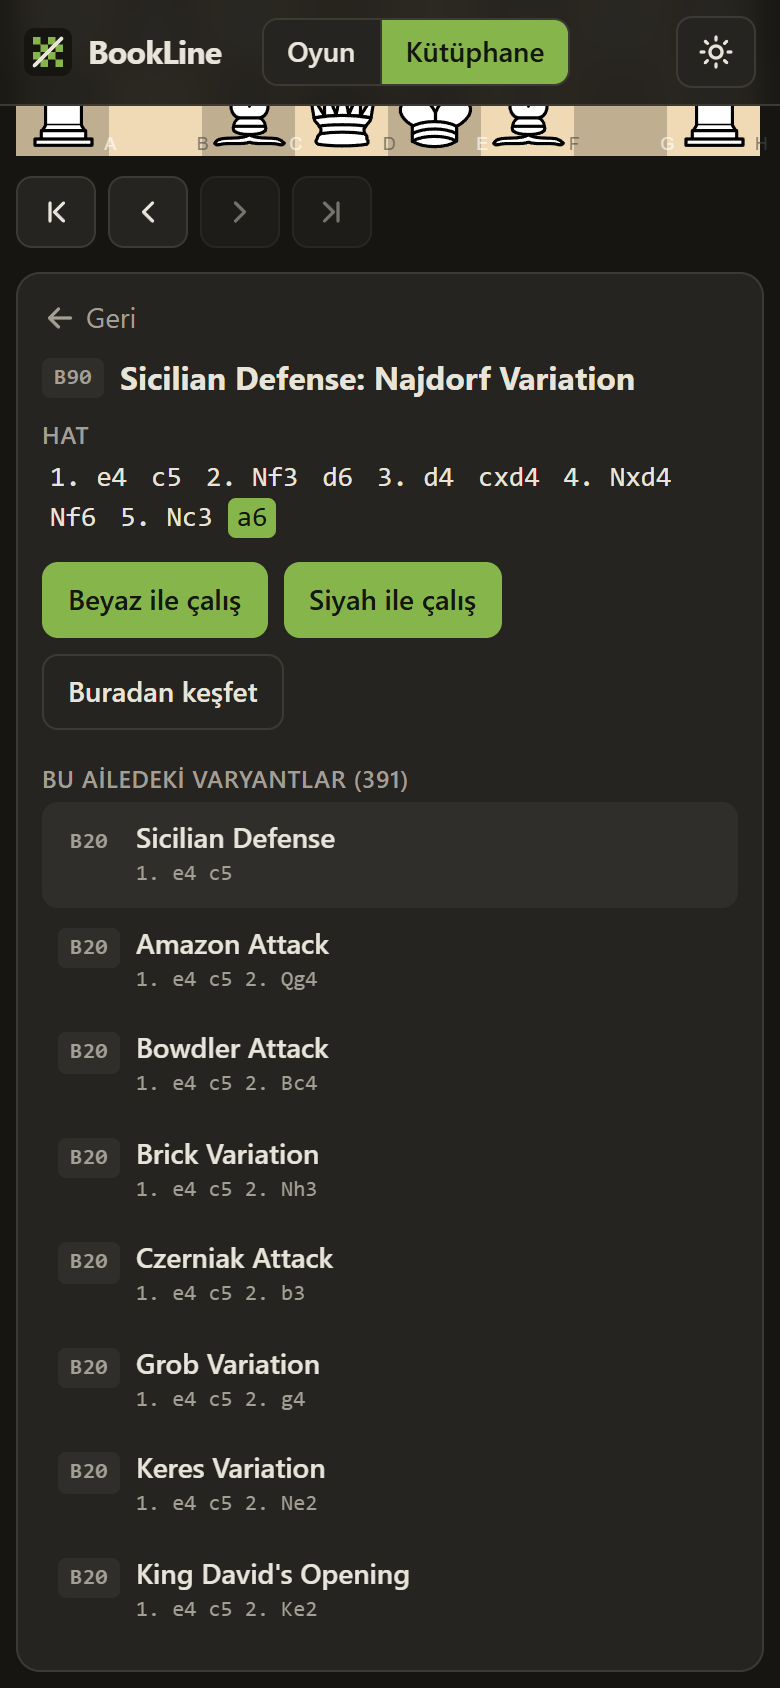
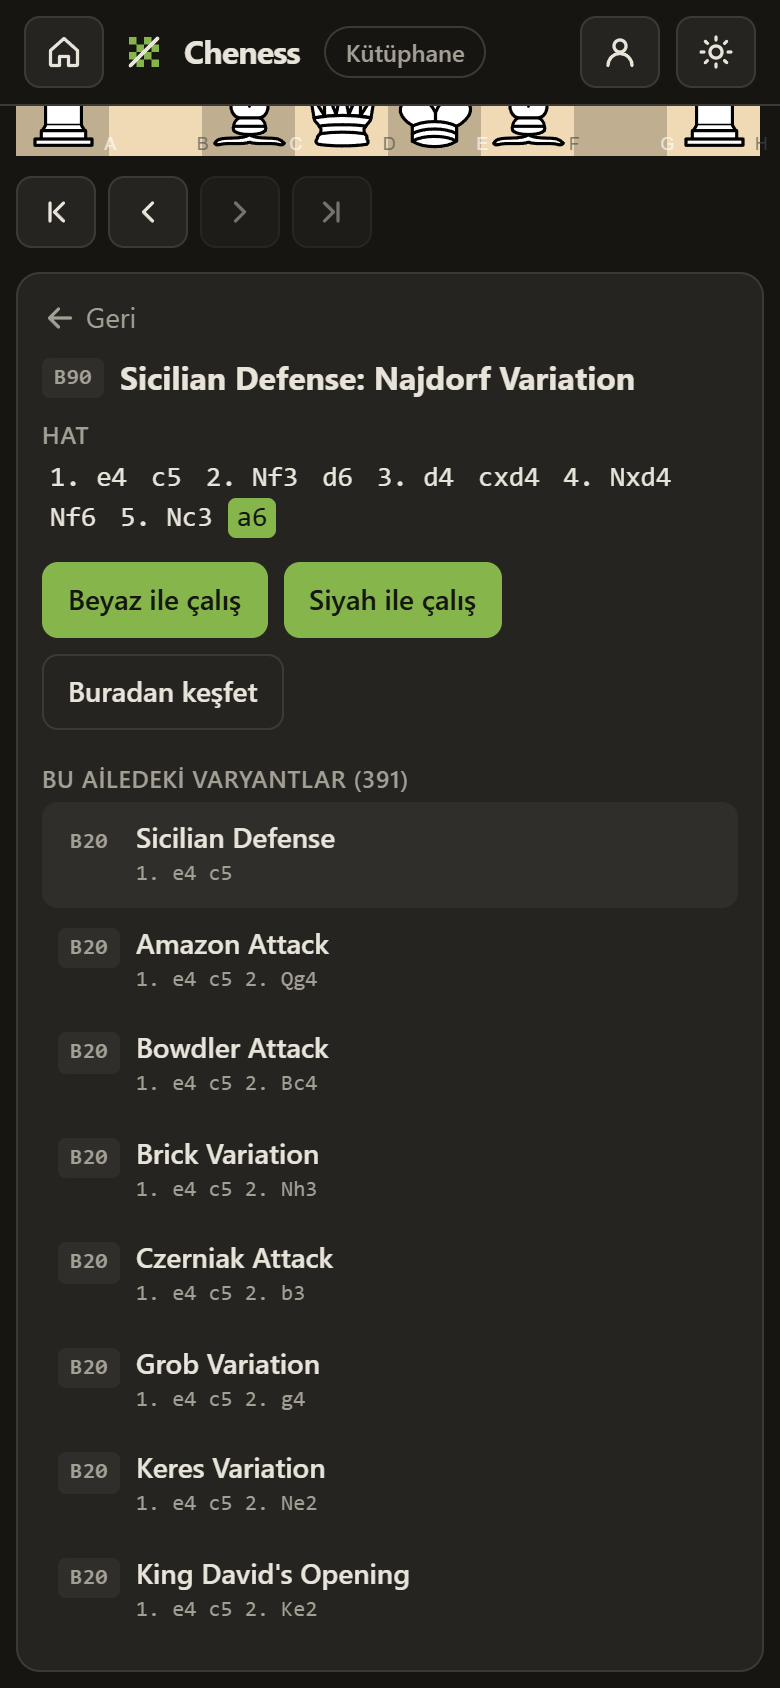
Refresh screenshots with the Cheness branding; add a Turkish user guide

diff --git a/docs/kullanim.md b/docs/kullanim.md
@@ -1,0 +1,75 @@
+# Cheness kullanım kılavuzu
+
+Adres: **https://enesturksal.github.io/cheness/** — telefon, tablet ve bilgisayarda aynı adres.
+Sunucu yok: girdiğin her şey (Lichess girişi, kullanıcı adları, ayarlar, süren oyun) yalnızca o
+cihazın tarayıcısında saklanır.
+
+## Kurulum (telefon)
+
+1. Adresi Chrome (Android) veya Safari (iPhone) ile aç.
+2. Tarayıcı menüsünden **"Ana ekrana ekle"** de. Cheness ikonuyla, tam ekran açılır.
+3. İlk açılışta motor (1,8 MB) ve açılış kitabı indirilip önbelleğe alınır; sonrasında internet
+   yokken de bot, kitap ve analiz çalışır. Canlı istatistikler ve teori için internet gerekir.
+
+Bilgisayarda kurulum gerekmez; adresi aç. Chrome'da adres çubuğundaki "yükle" ikonuyla
+pencere uygulaması olarak da ekleyebilirsin.
+
+## İlk ayar: Profil
+
+Üst çubuktaki kişi ikonu veya ana ekrandaki **Profil** kartı.
+
+- **Lichess ile giriş yap**: Lichess'e yönlendirir, onaylarsın, geri döner. Canlı açılış
+  istatistikleri (milyarlarca oyun), Ustalar veritabanı ve Lichess oyun arşivin bununla açılır.
+  Alternatif: lichess.org/account/oauth/token adresinden **hiçbir kutuyu işaretlemeden** token
+  oluşturup yapıştır.
+- **Kullanıcı adları**: "Oyunlarım" için Lichess adı girişten otomatik dolar; chess.com adını
+  elle yaz.
+- Dil (Türkçe/İngilizce) ve tema.
+
+Token'ı kimseyle paylaşma; hesabın adına işlem yapabilir.
+
+## Ana ekran
+
+| Kart                 | Ne yapar                                                                                                                                |
+| -------------------- | --------------------------------------------------------------------------------------------------------------------------------------- |
+| **Oyna**             | Taraf (Beyaz/Siyah/Rastgele) ve zorluk seç, Stockfish'e karşı oyna. "Tutor açık" işaretliyse açılış paneli çalışır.                     |
+| **Analiz et**        | Lichess veya chess.com'dan kopyaladığın PGN'i ya da bir Lichess oyun linkini yapıştır; oyun hamle hamle notlanır, Rapor sekmesi açılır. |
+| **Arkadaşınla oyna** | Aynı cihazda sırayla; tahta her hamlede döner.                                                                                          |
+| **Açılışlar**        | Lichess'ten canlı ağaç (giriş gerekli), popüler açılışlar, kitaptaki 149 ailenin tamamı (arama var). Her hattan ♔ veya ♚ olarak çalış.  |
+| **Kütüphane**        | ECO cilt → aile → varyant: 3.815 adlandırılmış hat, tahtada adım adım.                                                                  |
+| **Oyunlarım**        | Lichess/chess.com'dan son oyunlarını çek, incele, açılış başına skor tablosu.                                                           |
+| **Profil**           | Giriş, kullanıcı adları, dil, tema.                                                                                                     |
+
+## Oyun ekranı
+
+Tahtanın altında: açılış adı ve ECO kodu (kitap dışına çıkınca "kitap dışı" etiketi), hamle
+listesi, değerlendirme çubuğu ve son hamlenin notu (Kitap / En iyi / Harika / Mükemmel / İyi /
+Hatalı / Hata / Vahim hata; hata varsa "en iyisi: …").
+
+Düğmeler: başa/geri/ileri/sona, tahtayı çevir, **göz** (oklar), **+** (yeni oyun → ana ekran).
+Bot moduna özel: "Rakibi ben oynatayım" ve zorluk (yeni seviye botun bir sonraki hamlesinden
+itibaren geçerli).
+
+**Göz düğmesi**: en çok oynanan 3 devam yolu yeşil oklarla çizilir; en yoğun ok en çok oynanan.
+Explorer verisi yoksa mavi oklarla motorun ilk 3 önerisi ve değerlendirmesi çizilir.
+
+Paneldeki sekmeler:
+
+- **Açılış**: Lichess/Ustalar havuzunda popüler devamlar (yüzde, Beyaz/berabere/Siyah barı, her
+  hamlenin götürdüğü varyant). Bir satıra dokun → ok; tekrar dokun → oyna. Uzun bas → o hamleyi
+  rakip adına oyna. Altta yerel kitaptaki adlandırılmış devamlar.
+- **Teori**: o hat için Wikibooks açılış teorisi (İngilizce), sayfa yoksa en yakın üst hat.
+- **Hamleler**: notasyon; hamleye dokununca o pozisyona gider. Rozetler hamle kalitesi.
+- **Rapor**: taraf başına doğruluk yüzdesi, hamle türü sayıları, incelenecek hatalar listesi,
+  "Buradan bota karşı oyna".
+- **Ayarlar**: mod, taraf, zorluk, tutor/ok/ipucu seçenekleri, analiz derinliği, rating aralığı
+  ve tempo filtreleri, tema, dil.
+
+## Küçük ipuçları
+
+- Zorluk oyun ortasında değiştirilebilir; bir sonraki hamleden itibaren etkili olur.
+- Rating aralığını kendi seviyene göre daralt (Ayarlar → Rating aralığı); yüzdeler o gruptaki
+  oyunlara göre gelir.
+- Analiz derinliği telefonda "Hızlı" ile başlasın; Lichess bulut değerlendirmeleri açık kaldıkça
+  bilinen pozisyonlar zaten çok derin gelir.
+- Geri al (◀) bot modunda kendi sırana kadar geri alır; sonra farklı hamle oynayabilirsin.

diff --git a/README.md b/README.md
@@ -7,12 +7,21 @@ variation each continuation leads to. Take over the opponent's moves whenever yo
 steer the game into the line you are studying, and browse **every named opening and
 variation** (3,800+ from the Lichess opening database) offline.
 
-| Play (desktop)                                  | Library (mobile)                                | Variation detail (mobile)                                      |
-| ----------------------------------------------- | ----------------------------------------------- | -------------------------------------------------------------- |
-| ![Play view](docs/screenshots/play-desktop.png) | ![Library](docs/screenshots/library-mobile.png) | ![Variation detail](docs/screenshots/library-entry-mobile.png) |
+Turkish user guide: [docs/kullanim.md](docs/kullanim.md).
 
-_Screenshots are taken from an automated headless-Chrome run without a Lichess login, so the
-explorer panel shows the offline book; log in to see the Lichess statistics._
+| Home                                      | Play (engine arrows, verdict)             | Openings                                          |
+| ----------------------------------------- | ----------------------------------------- | ------------------------------------------------- |
+| ![Home](docs/screenshots/home-mobile.png) | ![Play](docs/screenshots/play-mobile.png) | ![Openings](docs/screenshots/openings-mobile.png) |
+
+| Game report                                   | Theory tab                                    | Library detail                                        |
+| --------------------------------------------- | --------------------------------------------- | ----------------------------------------------------- |
+| ![Report](docs/screenshots/report-mobile.png) | ![Theory](docs/screenshots/theory-mobile.png) | ![Library](docs/screenshots/library-entry-mobile.png) |
+
+![Desktop](docs/screenshots/play-desktop.png)
+
+_Screenshots come from the automated headless-Chrome run (`npm run smoke`) against the live
+site, without a Lichess login; with a login the opening panel shows Lichess statistics and
+popularity arrows._
 
 ## Features
 
